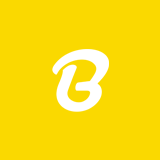
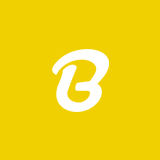
All app Color change + others

diff --git a/Beeeper/TimelineVC.m b/Beeeper/TimelineVC.m
@@ -526,7 +526,7 @@
         lbl.userInteractionEnabled = NO;
         lbl.numberOfLines = 0;
         lbl.text = @"Following";
-        lbl.backgroundColor =  [UIColor colorWithRed:250/255.0 green:203/255.0 blue:1/255.0 alpha:1];
+        lbl.backgroundColor =  [UIColor colorWithRed:234/255.0 green:176/255.0 blue:17/255.0 alpha:1];
         lbl.textColor = [UIColor whiteColor];
         lbl.textAlignment = NSTextAlignmentCenter;
         lbl.font = [UIFont fontWithName:@"HelveticaNeue-Bold" size:15];
@@ -556,7 +556,7 @@
         lbl.attributedText = txt;
         
         lbl.backgroundColor = [UIColor whiteColor];
-        lbl.textColor = [UIColor colorWithRed:250/255.0 green:203/255.0 blue:1/255.0 alpha:1];
+        lbl.textColor = [UIColor colorWithRed:240/255.0 green:208/255.0 blue:0/255.0 alpha:1];
         lbl.textAlignment = NSTextAlignmentCenter;
 
         
@@ -564,7 +564,7 @@
         
         self.followButton.hidden = NO;
         
-        [self.followButton setBackgroundImage:[self imageWithColor:[UIColor colorWithRed:250/255.0 green:217/255.0 blue:0/255.0 alpha:1.0]] forState:UIControlStateNormal];
+        [self.followButton setBackgroundImage:[self imageWithColor:[UIColor colorWithRed:240/255.0 green:208/255.0 blue:0/255.0 alpha:1.0]] forState:UIControlStateNormal];
         [self.followButton setBackgroundImage:[self imageWithColor:[UIColor colorWithRed:232/255.0 green:209/255.0 blue:3/255.0 alpha:1.0]] forState:UIControlStateHighlighted];
     }
     else{
@@ -670,7 +670,7 @@
         
         UIView *headerView = [[UIView alloc]initWithFrame:CGRectMake(0, 0, self.tableV.frame.size.width, 32)];
         
-        GTSegmentedControl *segment = [GTSegmentedControl initWithOptions:[NSArray arrayWithObjects:@"Upcoming",@"Past", nil] size:CGSizeMake(310, 32) selectedIndex:segmentIndex selectionColor:[UIColor colorWithRed:250/255.0 green:203/255.0 blue:1/255.0 alpha:1]];
+        GTSegmentedControl *segment = [GTSegmentedControl initWithOptions:[NSArray arrayWithObjects:@"Upcoming",@"Past", nil] size:CGSizeMake(310, 32) selectedIndex:segmentIndex selectionColor:[UIColor colorWithRed:241/255.0 green:181/255.0 blue:18/255.0 alpha:1]];
         
         segment.delegate = self;
         [headerView addSubview:segment];
@@ -764,7 +764,7 @@
         NSDictionary *dict = [NSJSONSerialization JSONObjectWithData:data options:0 error:nil];
         
         EventLocation *loc = [EventLocation modelObjectWithDictionary:dict];
-        venueLbl.text = loc.venueStation;
+        venueLbl.text = [loc.venueStation uppercaseString];
         
         //Likes,Beeeps,Comments
         UILabel *beeepsLbl = (id)[cell viewWithTag:-5];

diff --git a/Beeeper/HomeFeedVC.m b/Beeeper/HomeFeedVC.m
@@ -366,7 +366,7 @@
         UILabel *titleLbl = (id)[containerV viewWithTag:4];
         
         monthLbl.font = [UIFont fontWithName:@"HelveticaNeue-Bold" size:14];
-       // monthLbl.textColor = [UIColor colorWithRed:250/255.0 green:217/255.0 blue:0/255.0 alpha:1];
+       // monthLbl.textColor = [UIColor colorWithRed:240/255.0 green:208/255.0 blue:0/255.0 alpha:1];
         monthLbl.text = [month uppercaseString];
         
         dayLbl.font = [UIFont fontWithName:@"HelveticaNeue-Medium" size:24];
@@ -514,7 +514,7 @@
             UILabel *titleLbl = (id)[containerV viewWithTag:4];
             
             monthLbl.font = [UIFont fontWithName:@"HelveticaNeue-Bold" size:14];
-            //monthLbl.textColor = [UIColor colorWithRed:250/255.0 green:217/255.0 blue:0/255.0 alpha:1];
+            //monthLbl.textColor = [UIColor colorWithRed:240/255.0 green:208/255.0 blue:0/255.0 alpha:1];
             monthLbl.text = [month uppercaseString];
             
             dayLbl.font = [UIFont fontWithName:@"HelveticaNeue-Medium" size:24];
@@ -673,7 +673,7 @@
         
         UICollectionReusableView * headerView = [collectionView dequeueReusableSupplementaryViewOfKind : CHTCollectionElementKindSectionHeader withReuseIdentifier : @ "HeaderView" forIndexPath : indexPath] ;
 
-        GTSegmentedControl *segment = [GTSegmentedControl initWithOptions:[NSArray arrayWithObjects:@"All", @"Friends'", nil] size:CGSizeMake(303, 32) selectedIndex:selectedIndex selectionColor:[UIColor colorWithRed:250/255.0 green:217/255.0 blue:0 alpha:1]];
+        GTSegmentedControl *segment = [GTSegmentedControl initWithOptions:[NSArray arrayWithObjects:@"All", @"Friends'", nil] size:CGSizeMake(303, 32) selectedIndex:selectedIndex selectionColor:[UIColor colorWithRed:240/255.0 green:208/255.0 blue:0 alpha:1]];
         segment.delegate = self;
         [headerView addSubview:segment];
         segment.center = headerView.center;

diff --git a/Beeeper/EventVC.m b/Beeeper/EventVC.m
@@ -1687,15 +1687,12 @@
     
     switch (buttonIndex) {
         case 0:
-            
-            break;
-        case 1:
             [self sendFacebook];
             break;
-        case 2:
+        case 1:
             [self sendTwitter];
             break;
-        case 3:{
+        case 2:{
             if ([MFMessageComposeViewController canSendText]) {
                 [self sendSMS];
             }
@@ -1708,7 +1705,7 @@
             }
             break;
         }
-        case 4:
+        case 3:
         {
             if ([MFMailComposeViewController canSendMail]) {
                 [self sendEmail];
@@ -1716,12 +1713,20 @@
             else{
                 UIPasteboard *pasteboard = [UIPasteboard generalPasteboard];
                 pasteboard.string = websiteURL;
+                
+                [SVProgressHUD setBackgroundColor:[UIColor colorWithRed:52/255.0 green:134/255.0 blue:57/255.0 alpha:1]];
+                [SVProgressHUD showSuccessWithStatus:@"Copied to Clipboard"];
+
             }
         }
             break;
-        case 5:{
+        case 4:{
             UIPasteboard *pasteboard = [UIPasteboard generalPasteboard];
             pasteboard.string = websiteURL;
+
+            [SVProgressHUD setBackgroundColor:[UIColor colorWithRed:52/255.0 green:134/255.0 blue:57/255.0 alpha:1]];
+            [SVProgressHUD showSuccessWithStatus:@"Copied to Clipboard"];
+            
             break;
         }
         default:

diff --git a/Beeeper/GHContextMenuView.m b/Beeeper/GHContextMenuView.m
@@ -83,7 +83,7 @@ CGFloat const   GHAnimationDelay = GHAnimationDuration/10;
         _radius = 90;
         
         self.itemBGColor = [UIColor colorWithRed:218/255.0 green:223/255.0 blue:226/255.0 alpha:1].CGColor;
-        self.itemBGHighlightedColor = [UIColor colorWithRed:250.0/255.0 green:217.0/255.0 blue:0 alpha:1].CGColor;
+        self.itemBGHighlightedColor = [UIColor colorWithRed:240.0/255.0 green:217.0/255.0 blue:0 alpha:1].CGColor;
         
     }
     return self;
@@ -365,7 +365,7 @@ CGFloat const   GHAnimationDelay = GHAnimationDuration/10;
             
             if (fabs(distanceFromItem) < toleranceDistance ) {
                 CALayer *layer = [self.menuItems objectAtIndex:closeToIndex];
-                layer.backgroundColor =  [UIColor colorWithRed:250.0/255.0 green:217.0/255.0 blue:0 alpha:1].CGColor;
+                layer.backgroundColor =  [UIColor colorWithRed:240.0/255.0 green:208.0/255.0 blue:0 alpha:1].CGColor;
                 
                 CGFloat distanceFromItemBorder = fabs(distanceFromItem);
                 

diff --git a/Beeeper/WelcomeVC.m b/Beeeper/WelcomeVC.m
@@ -54,7 +54,7 @@
     
     [self autoLoginIfAvailable];
     
-    [[UINavigationBar appearance] setBarTintColor: [UIColor colorWithRed:250/255.0 green:217/255.0 blue:0 alpha:1]];
+    [[UINavigationBar appearance] setBarTintColor: [UIColor colorWithRed:240/255.0 green:208/255.0 blue:0 alpha:1]];
     [[UINavigationBar appearance] setTintColor:[UIColor whiteColor]];
     [[UINavigationBar appearance] setTitleTextAttributes:@{NSForegroundColorAttributeName: [UIColor whiteColor]}];
     
@@ -381,7 +381,7 @@
 -(void)showSplashScreen{
 
     UIView *backV = [[UIView alloc]initWithFrame:self.view.bounds];
-    backV.backgroundColor = [UIColor colorWithRed:250/255.0 green:217/255.0 blue:0 alpha:1];
+    backV.backgroundColor = [UIColor colorWithRed:240/255.0 green:208/255.0 blue:0 alpha:1];
     UIImageView *imgV = [[UIImageView alloc]initWithImage:[UIImage imageNamed:@"beeeper-logo-Splash"]];
     imgV.tag = 454;
     imgV.center = CGPointMake(backV.center.x, backV.center.y-22);

diff --git a/Beeeper/PHFComposeBarView.m b/Beeeper/PHFComposeBarView.m
@@ -288,7 +288,7 @@ static CGFloat kTextViewToSuperviewHeightDelta;
         [_button setTitleEdgeInsets:UIEdgeInsetsMake(0.5f, 0, 0, 0)];
         [_button setAutoresizingMask:UIViewAutoresizingFlexibleLeftMargin|UIViewAutoresizingFlexibleTopMargin];
         [_button setTitle:[self buttonTitle] forState:UIControlStateNormal];
-        [_button setBackgroundColor:[UIColor colorWithRed:250/255.0 green:217/255.0 blue:0 alpha:1]];
+        [_button setBackgroundColor:[UIColor colorWithRed:240/255.0 green:208/255.0 blue:0 alpha:1]];
         UIColor *disabledColor = [UIColor whiteColor];
         [_button setTitleColor:disabledColor forState:UIControlStateDisabled];
         UIColor *enabledColor = [UIColor whiteColor];

diff --git a/Beeeper/MyDateTimePicker.m b/Beeeper/MyDateTimePicker.m
@@ -48,7 +48,7 @@
         UIButton *doneButton = [UIButton buttonWithType:UIButtonTypeCustom];
         doneButton.frame = CGRectMake(0, MyDateTimePickerPickerHeight, width, MyDateTimePickerToolbarHeight);
         [doneButton setTitle:@"Done" forState:UIControlStateNormal];
-        doneButton.backgroundColor = [UIColor colorWithRed:250/255.0 green:217/255.0 blue:0 alpha:1];
+        doneButton.backgroundColor = [UIColor colorWithRed:240/255.0 green:208/255.0 blue:0 alpha:1];
         [doneButton addTarget:self action:@selector(donePressed) forControlEvents:UIControlEventTouchUpInside];
         [self addSubview:doneButton];
         

diff --git a/Beeeper/ChooseSignUpVC.m b/Beeeper/ChooseSignUpVC.m
@@ -80,7 +80,7 @@
                   value:[UIFont fontWithName:@"HelveticaNeue-Light" size:15]
                   range:[btnTitle rangeOfString:btnTitle]];
     
-    [string addAttribute:NSForegroundColorAttributeName value:[UIColor colorWithRed:250/255.0 green:217/255.0 blue:0 alpha:1] range:range];
+    [string addAttribute:NSForegroundColorAttributeName value:[UIColor colorWithRed:240/255.0 green:208/255.0 blue:0 alpha:1] range:range];
     [self.emailSignupButton setAttributedTitle:string forState:UIControlStateNormal];
 }
 

diff --git a/Beeeper/MissingFields.m b/Beeeper/MissingFields.m
@@ -117,7 +117,7 @@
 }
 
 -(BOOL)textFieldShouldBeginEditing:(UITextField *)textField{
-    textField.textColor = [UIColor colorWithRed:250/255.0 green:217/255.0 blue:0/255.0 alpha:1];
+    textField.textColor = [UIColor colorWithRed:240/255.0 green:208/255.0 blue:0/255.0 alpha:1];
     textField.attributedPlaceholder = [[NSAttributedString alloc] initWithString:textField.placeholder attributes:@{NSForegroundColorAttributeName: textField.textColor}];
     
     UIView *v = [self.scrollV viewWithTag:100+textField.tag];

diff --git a/Beeeper/TabbarVC.m b/Beeeper/TabbarVC.m
@@ -256,7 +256,7 @@
 -(void)showSplashScreen{
     
     UIView *backV = [[UIView alloc]initWithFrame:self.view.bounds];
-    backV.backgroundColor = [UIColor colorWithRed:250/255.0 green:217/255.0 blue:0 alpha:1];
+    backV.backgroundColor = [UIColor colorWithRed:240/255.0 green:208/255.0 blue:0 alpha:1];
     UIImageView *imgV = [[UIImageView alloc]initWithImage:[UIImage imageNamed:@"beeeper-logo-Splash"]];
     imgV.tag = 454;
     imgV.center = CGPointMake(backV.center.x, backV.center.y-22);

diff --git a/Beeeper/ActivityVC.m b/Beeeper/ActivityVC.m
@@ -477,7 +477,7 @@
     
     UILabel *mlbl = [[UILabel alloc]initWithFrame:CGRectMake(0, 6, 306, 18)];
     mlbl.font =  [UIFont fontWithName:@"HelveticaNeue-Bold" size:13];
-    mlbl.textColor = [UIColor colorWithRed:250/255.0 green:217/255.0 blue:0/255.0 alpha:1];
+    mlbl.textColor = [UIColor colorWithRed:240/255.0 green:208/255.0 blue:0/255.0 alpha:1];
     mlbl.text = [month uppercaseString];
     mlbl.textAlignment = NSTextAlignmentCenter;
     [backV addSubview:mlbl];

diff --git a/Beeeper/SuggestionsVC.m b/Beeeper/SuggestionsVC.m
@@ -362,7 +362,7 @@
     
     UILabel *mlbl = [[UILabel alloc]initWithFrame:CGRectMake(0, 6, 306, 18)];
     mlbl.font =  [UIFont fontWithName:@"HelveticaNeue-Bold" size:13];
-    mlbl.textColor = [UIColor colorWithRed:250/255.0 green:217/255.0 blue:0/255.0 alpha:1];
+    mlbl.textColor = [UIColor colorWithRed:240/255.0 green:208/255.0 blue:0/255.0 alpha:1];
     mlbl.text = [month uppercaseString];
     mlbl.textAlignment = NSTextAlignmentCenter;
     [backV addSubview:mlbl];
